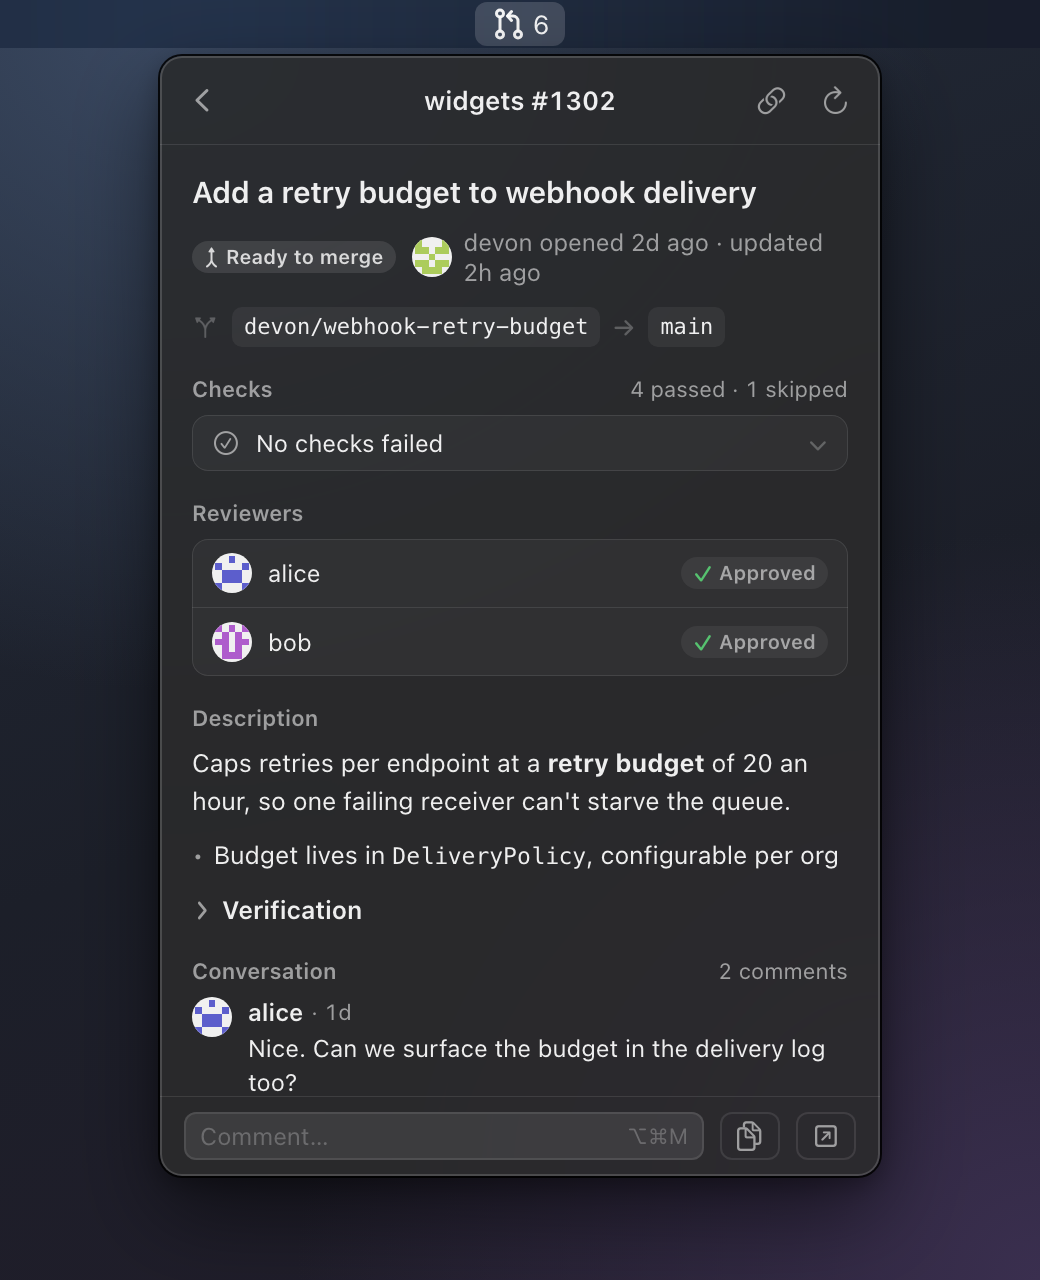
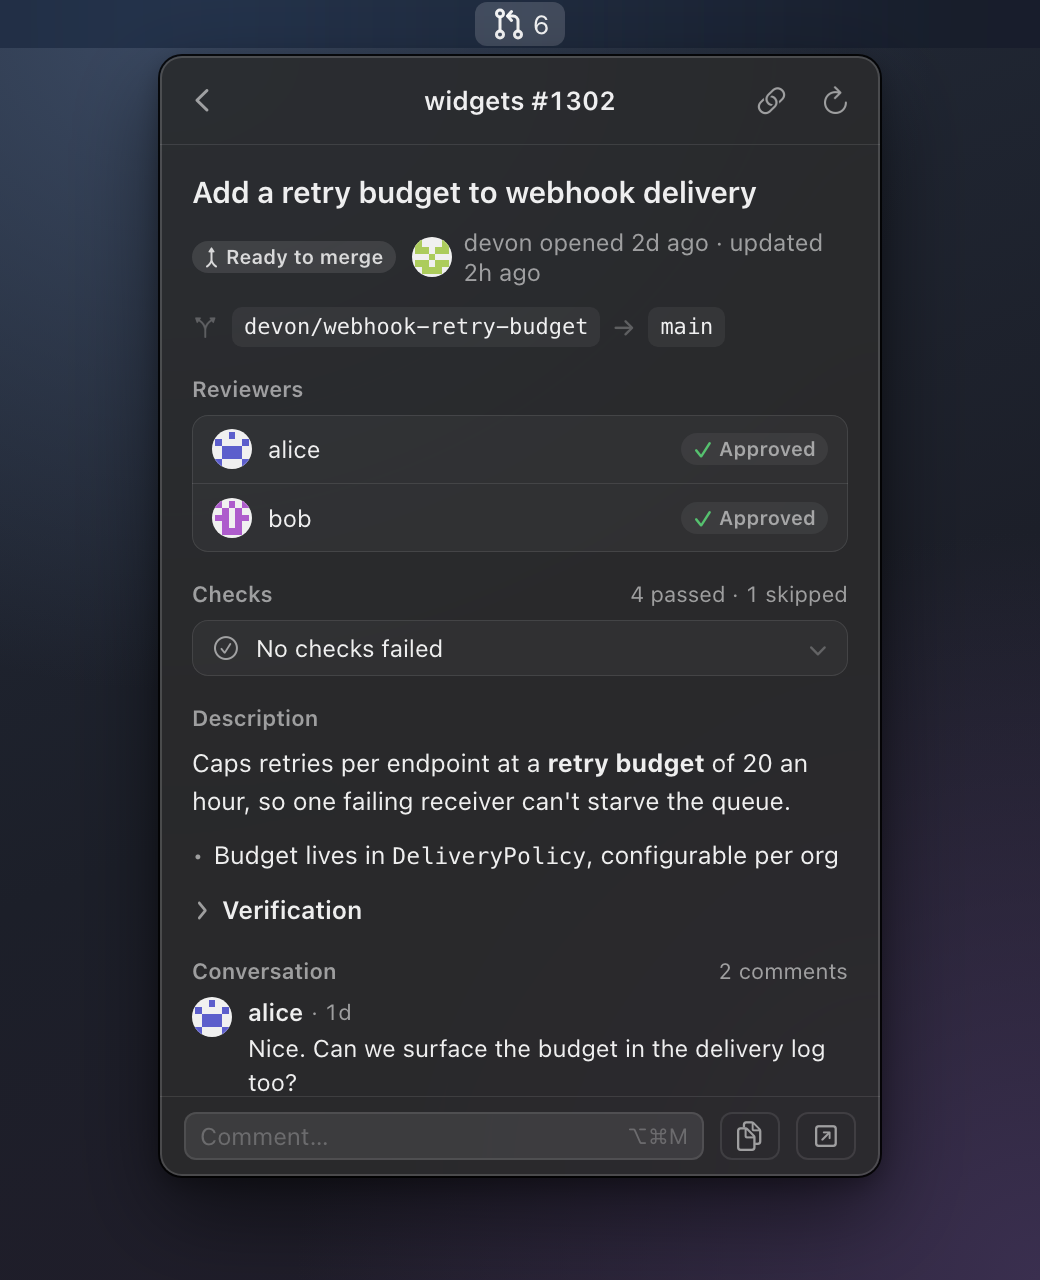
Show a PR's reviewers above its checks
The detail now reads Details, Reviewers, Checks: who the PR waits on
comes before whether CI is green, as on GitHub's sidebar, and the two
status cards stay together. While an open PR loads, its reviewers sit
above the Checks placeholder so nothing moves when the detail arrives.
Merged and closed PRs still lead with the description. The README
screenshot follows.

diff --git a/PullBull/Detail/PRDetailView.swift b/PullBull/Detail/PRDetailView.swift
@@ -36,6 +36,10 @@ struct PRDetailView: View {
                         if let detail {
                             if let error = fetch?.error { RefreshFailedNote(message: error) { model.reloadDetail() } }
                             sections(detail, now: context.date)
+                        } else if let pr, pr.state == .open, fetch?.error == nil {
+                            // Reviewers, from the list data, sit above the Checks placeholder as in the loaded detail.
+                            reviewersSection(reviews: pr.latestReviews, pr: pr)
+                            placeholder
                         } else {
                             placeholder
                             if let pr { reviewersSection(reviews: pr.latestReviews, pr: pr) }
@@ -180,7 +184,7 @@ struct PRDetailView: View {
 
     // MARK: Sections
 
-    /// Open PRs lead with status (checks, reviewers); merged and closed ones keep the description first.
+    /// Open PRs lead with status (reviewers, checks); merged and closed ones keep the description first.
     @ViewBuilder private func sections(_ detail: PRDetail, now: Date) -> some View {
         if pr?.state == .open {
             statusSections(detail)
@@ -194,12 +198,12 @@ struct PRDetailView: View {
     }
 
     @ViewBuilder private func statusSections(_ detail: PRDetail) -> some View {
-        checksSection(detail)
         if let pr {
             reviewersSection(reviews: detail.reviews, pr: pr, detail: detail)
         } else if !detail.reviews.isEmpty || detail.requests?.isEmpty == false {
             reviewersSection(reviews: detail.reviews, pr: nil, detail: detail)
         }
+        checksSection(detail)
     }
 
     private func checksSection(_ detail: PRDetail) -> some View {

diff --git a/docs/media/src/detail.js b/docs/media/src/detail.js
@@ -197,10 +197,10 @@
     const pr = d.pr;
     const branches = `<div class="hstack" style="gap:6px;margin-top:10px"><span class="c-tertiary hstack">${sym("arrow.triangle.branch", 11)}</span>` +
       `<span class="branch-chip">${esc(pr.headRef)}</span><span class="c-tertiary hstack">${sym("arrow.right", 10, "semibold")}</span><span class="branch-chip">${esc(pr.baseRef)}</span></div>`;
-    // Open PRs lead with status (checks, reviewers), then the description (PRDetailView.sections).
+    // Open PRs lead with status (reviewers, checks), then the description (PRDetailView.sections).
     const description = section("Description", null, `<div class="description">${markdown(pr.body)}</div>`);
     const body = summaryBlock(pr.title, prStatePill(pr), pr.author, pr.opened, branches) +
-      checksSection(pr) + reviewersSection(pr, d.viewer.login) + description +
+      reviewersSection(pr, d.viewer.login) + checksSection(pr) + description +
       conversationSection(pr.comments, pr.commentTotal ?? pr.comments.length) + filesSection(pr);
     return `<div class="detail">${detailHeader(`${pr.repo} #${pr.number}`)}<div class="detail-scroll"><div class="detail-content">${body}</div></div>` +
       bottomBar(["doc.on.doc", "arrow.up.right.square"]) + `</div>`;

diff --git a/PullBull/Detail/DetailSkeleton.swift b/PullBull/Detail/DetailSkeleton.swift
@@ -5,7 +5,7 @@ import SwiftUI
 /// already shows from the list data. VoiceOver reads "Loading details…".
 struct DetailSkeleton: View {
     enum Layout {
-        /// An open PR: the Checks section. Reviewers follows from the list data.
+        /// An open PR: the Checks section, under Reviewers from the list data.
         case checks
         /// A merged or closed PR: the Description section, prose straight on the material.
         case prose
